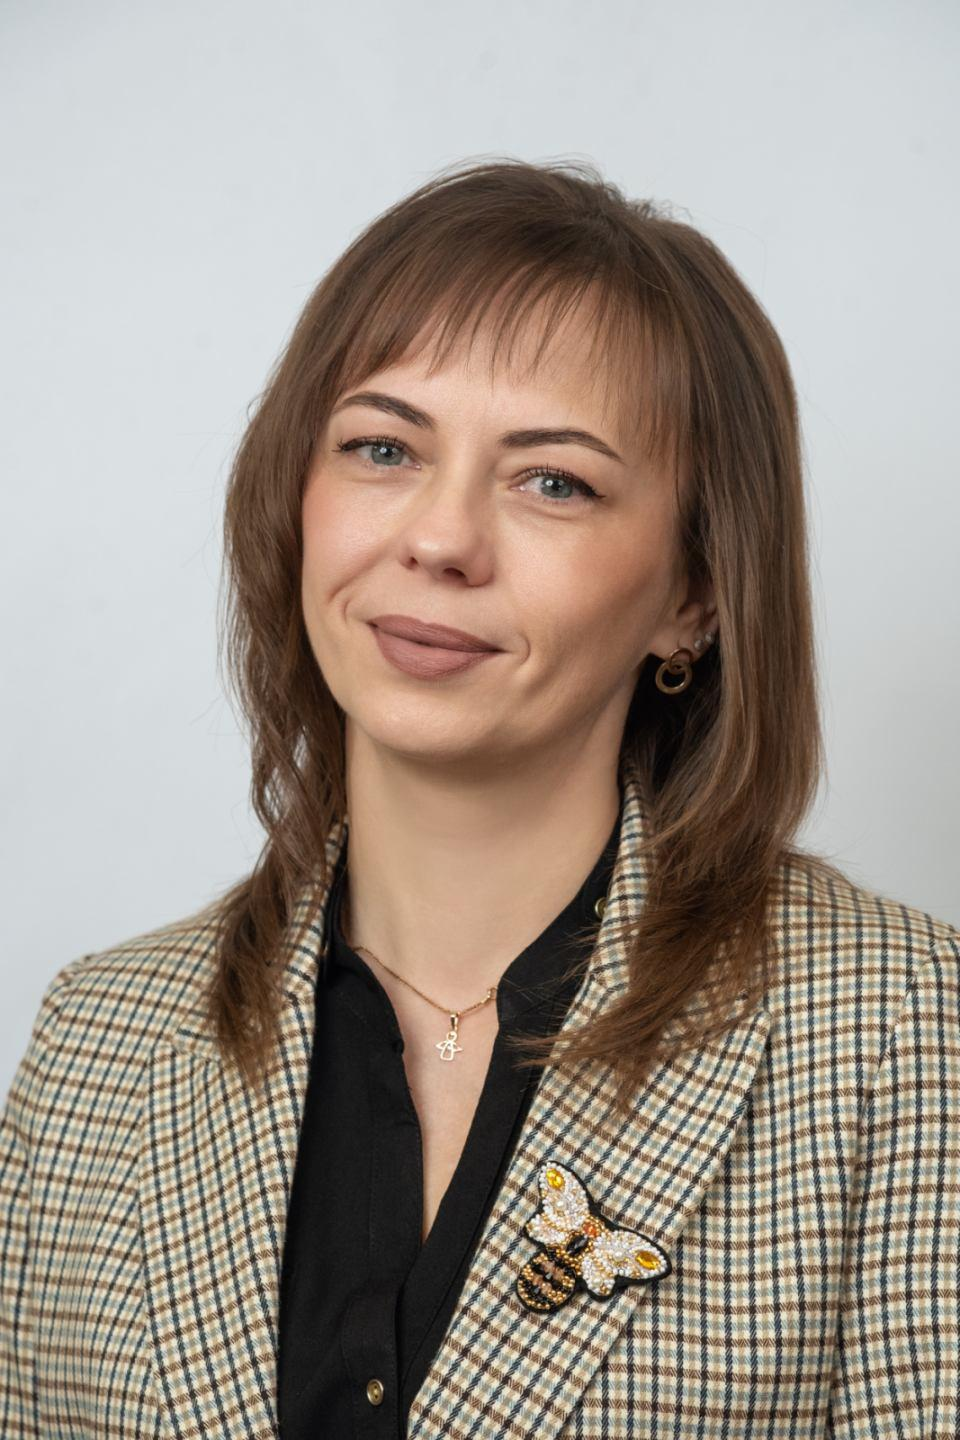
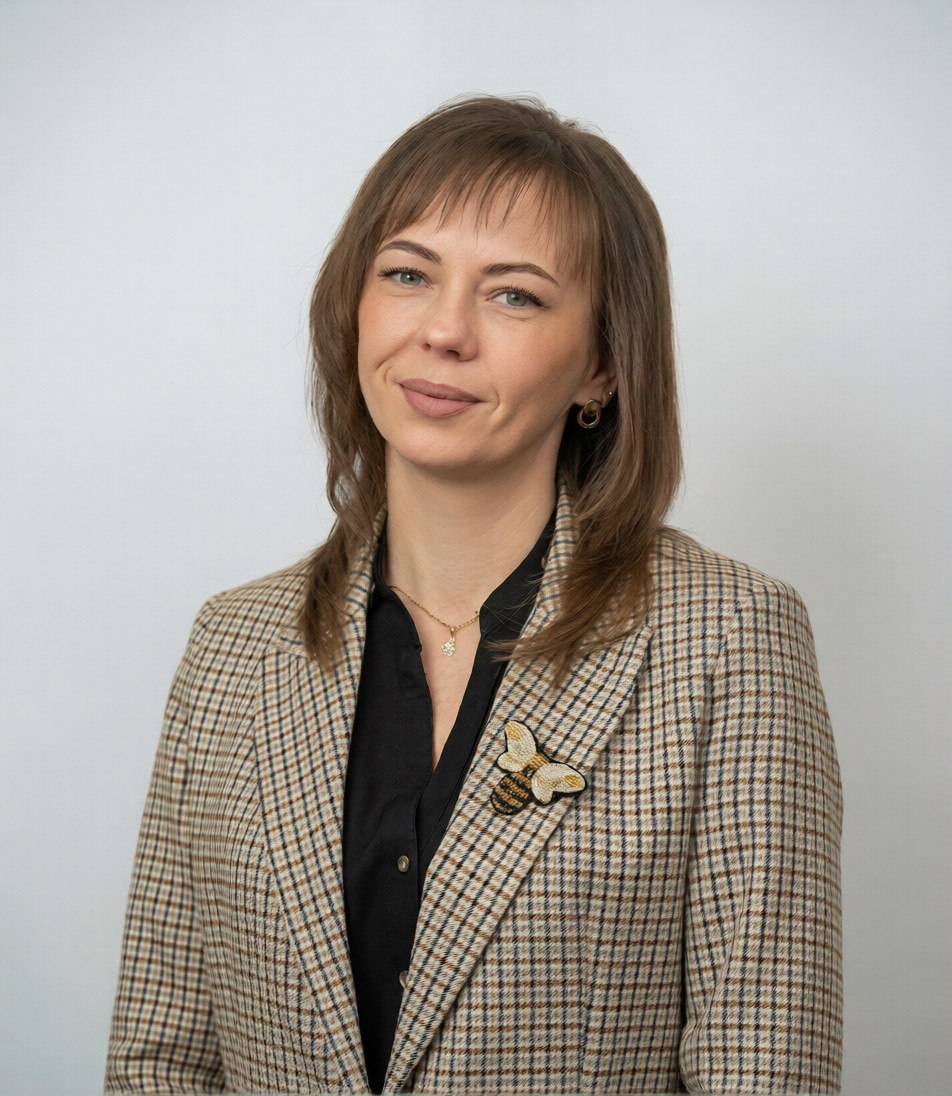
11

diff --git a/academic-integrity.html b/academic-integrity.html
@@ -9,6 +9,184 @@
     <link
         href="https://fonts.googleapis.com/css2?family=Montserrat:wght@500;600;700&family=Open+Sans:wght@400;600&display=swap"
         rel="stylesheet">
+    <style>
+        /* Enhanced Document Links */
+        .links-container {
+            counter-reset: doc-counter;
+        }
+
+        .doc-link {
+            position: relative;
+            padding-left: 80px !important;
+            margin-bottom: 20px;
+            transition: all 0.3s ease;
+            display: block;
+            background: rgba(255, 255, 255, 0.9);
+            padding: 15px 20px;
+            border-left: 5px solid var(--primary-green);
+            border-radius: 8px;
+            box-shadow: 0 2px 10px rgba(0, 0, 0, 0.05);
+            font-weight: 600;
+            color: var(--text-dark);
+            text-decoration: none;
+        }
+
+        .doc-link::before {
+            counter-increment: doc-counter;
+            content: counter(doc-counter);
+            position: absolute;
+            left: 20px;
+            top: 50%;
+            transform: translateY(-50%);
+            width: 45px;
+            height: 45px;
+            background: linear-gradient(135deg, var(--primary-green), var(--dark-green));
+            color: white;
+            border-radius: 50%;
+            display: flex;
+            align-items: center;
+            justify-content: center;
+            font-weight: 700;
+            font-size: 1.2rem;
+            font-family: 'Montserrat', sans-serif;
+            box-shadow: 0 3px 10px rgba(46, 125, 50, 0.3);
+            transition: all 0.3s ease;
+        }
+
+        .doc-link:hover::before {
+            transform: translateY(-50%) scale(1.1);
+            box-shadow: 0 5px 15px rgba(46, 125, 50, 0.5);
+        }
+
+        .doc-link:hover {
+            transform: translateX(10px);
+            box-shadow: 0 8px 25px rgba(0, 0, 0, 0.15);
+            background: var(--white);
+            color: var(--primary-green);
+        }
+
+        .doc-link-col {
+            display: flex;
+            flex-direction: column;
+            gap: 8px;
+        }
+
+        .doc-link-col span {
+            font-size: 1.05rem;
+            line-height: 1.4;
+        }
+
+        /* Premium Law Card */
+        .law-card-link {
+            display: flex;
+            align-items: center;
+            gap: 24px;
+            background: linear-gradient(135deg, #ffffff 0%, #f1f8f2 100%);
+            border: 2px solid #c8e6c9;
+            border-left: 6px solid var(--primary-green);
+            border-radius: 16px;
+            padding: 24px 28px;
+            text-decoration: none;
+            color: var(--text-dark);
+            box-shadow: 0 4px 20px rgba(46, 125, 50, 0.1);
+            transition: all 0.35s ease;
+            position: relative;
+            overflow: hidden;
+        }
+
+        .law-card-link::after {
+            content: '';
+            position: absolute;
+            top: 0; left: 0;
+            width: 100%; height: 100%;
+            background: linear-gradient(135deg, var(--primary-green), var(--dark-green));
+            opacity: 0;
+            transition: opacity 0.35s ease;
+            z-index: 0;
+        }
+
+        .law-card-link:hover::after {
+            opacity: 1;
+        }
+
+        .law-card-link:hover {
+            border-color: var(--primary-green);
+            transform: translateY(-3px);
+            box-shadow: 0 12px 35px rgba(46, 125, 50, 0.3);
+            color: white;
+        }
+
+        .law-card-icon {
+            width: 64px;
+            height: 64px;
+            background: linear-gradient(135deg, var(--primary-green), var(--dark-green));
+            border-radius: 14px;
+            display: flex;
+            align-items: center;
+            justify-content: center;
+            font-size: 2rem;
+            flex-shrink: 0;
+            box-shadow: 0 4px 12px rgba(46, 125, 50, 0.3);
+            transition: transform 0.35s ease;
+            position: relative;
+            z-index: 1;
+        }
+
+        .law-card-link:hover .law-card-icon {
+            transform: scale(1.1) rotate(-5deg);
+            background: rgba(255,255,255,0.2);
+            box-shadow: 0 4px 12px rgba(255,255,255,0.2);
+        }
+
+        .law-card-body {
+            flex: 1;
+            position: relative;
+            z-index: 1;
+        }
+
+        .law-card-label {
+            font-family: 'Montserrat', sans-serif;
+            font-size: 0.75rem;
+            font-weight: 700;
+            text-transform: uppercase;
+            letter-spacing: 2px;
+            color: var(--accent-orange);
+            margin-bottom: 6px;
+            transition: color 0.35s ease;
+        }
+
+        .law-card-link:hover .law-card-label {
+            color: rgba(255, 200, 100, 1);
+        }
+
+        .law-card-title {
+            font-family: 'Montserrat', sans-serif;
+            font-size: 1.25rem;
+            font-weight: 700;
+            color: var(--text-dark);
+            line-height: 1.3;
+            transition: color 0.35s ease;
+        }
+
+        .law-card-link:hover .law-card-title {
+            color: white;
+        }
+
+        .law-card-arrow {
+            font-size: 1.8rem;
+            color: var(--primary-green);
+            font-weight: 700;
+            transition: all 0.35s ease;
+            position: relative;
+            z-index: 1;
+            flex-shrink: 0;
+        }
+
+        .law-card-link:hover .law-card-arrow {
+            color: white;
+            transform: translateX(6px);
+        }
+    </style>
 </head>
 
 <body class="inner-page">
@@ -55,14 +233,18 @@
 
                 <h2 class="page-title materials-title">Матеріали та документи</h2>
 
-                <!-- Placeholder for future content -->
-                <div class="alert-box"
-                    style="text-align: center; background: #e3f2fd; padding: 40px; border-radius: 12px; border: 2px dashed #2196f3; margin-top: 30px; margin-bottom: 50px;">
-                    <i class="fas fa-tools" style="font-size: 4rem; color: #2196f3; margin-bottom: 20px;"></i>
-                    <h3 style="color: #0d47a1; margin-bottom: 15px; font-family: 'Montserrat', sans-serif;">Розділ у
-                        процесі наповнення</h3>
-                    <p style="color: #555; font-size: 1.1rem;">На жаль, матеріали та документи ще не додані.<br>Вони
-                        з'являться тут найближчим часом.</p>
+                <!-- Документи -->
+                <div style="margin-top: 30px; margin-bottom: 50px; max-width: 800px; margin-left: auto; margin-right: auto;">
+                    <a href="https://zakon.rada.gov.ua/laws/show/4742-20#Text" target="_blank" class="law-card-link">
+                        <div class="law-card-icon">
+                            <span>⚖</span>
+                        </div>
+                        <div class="law-card-body">
+                            <div class="law-card-label">ЗАКОН УКРАЇНИ</div>
+                            <div class="law-card-title">Про академічну доброчесність</div>
+                        </div>
+                        <div class="law-card-arrow">→</div>
+                    </a>
                 </div>
 
             </div>

diff --git a/inclusive-education.html b/inclusive-education.html
@@ -29,14 +29,24 @@
 
                 <h2 class="page-title materials-title">Матеріали та документи</h2>
 
-                <!-- Placeholder for future content -->
-                <div class="alert-box"
-                    style="text-align: center; background: #e3f2fd; padding: 40px; border-radius: 12px; border: 2px dashed #2196f3; margin-top: 30px; margin-bottom: 50px;">
-                    <i class="fas fa-tools" style="font-size: 4rem; color: #2196f3; margin-bottom: 20px;"></i>
-                    <h3 style="color: #0d47a1; margin-bottom: 15px; font-family: 'Montserrat', sans-serif;">Розділ у
-                        процесі наповнення</h3>
-                    <p style="color: #555; font-size: 1.1rem;">На жаль, матеріали та документи ще не додані.<br>Вони
-                        з'являться тут найближчим часом.</p>
+                <div class="docs-section" id="documents-container" style="margin-top: 30px; margin-bottom: 50px;">
+                    <a href="https://zakon.rada.gov.ua/laws/show/957-2021-%D0%BF#Text"
+                        target="_blank" class="doc-alert-card">
+                        <div class="doc-alert-card-inner">
+                            <span class="doc-icon">📘</span>
+                            <span class="doc-name">Про затвердження Порядку організації інклюзивного навчання у закладах загальної середньої освіти</span>
+                        </div>
+                        <span class="doc-arrow">➝</span>
+                    </a>
+
+                    <a href="https://drive.google.com/file/d/19EAtOZpKcxLFh46vQpDld46CWhMH6DP2/view?usp=sharing"
+                        target="_blank" class="doc-alert-card">
+                        <div class="doc-alert-card-inner">
+                            <span class="doc-icon">📋</span>
+                            <span class="doc-name">Положення про команду психолого-педагогічного супроводу дитини з освітніми потребами, яка здобуває дошкільну освіту</span>
+                        </div>
+                        <span class="doc-arrow">➝</span>
+                    </a>
                 </div>
 
             </div>

diff --git a/management.html b/management.html
@@ -24,11 +24,13 @@
                     <div class="card admin-card-large">
                         <div class="admin-photo-container">
                             <img src="assets/img/admin-director.jpg" alt="Юрченко Аліна Сергіївна"
-                                class="card-photo admin-photo" style="object-position: center top;" onerror="this.src='assets/img/logo.png'">
+                                class="card-photo admin-photo"
+                                style="object-fit: cover; object-position: center 15%; transform: scale(1.05);"
+                                onerror="this.src='assets/img/logo.png'">
                         </div>
-                        <div class="card-content">
-                            <div class="card-title">Юрченко<br>Аліна Сергіївна</div>
-                            <div class="card-subtitle">Директор гімназії</div>
+                        <div class="card-content" style="padding: 8px 10px; min-height: auto;">
+                            <div class="card-title" style="margin-bottom: 2px;">Юрченко<br>Аліна Сергіївна</div>
+                            <div class="card-subtitle" style="margin-bottom: 0;">Директор гімназії</div>
                         </div>
                     </div>
                 </div>

diff --git a/assets/js/components.js b/assets/js/components.js
@@ -215,6 +215,7 @@ function injectHeader() {
                             <h4>Історія</h4>
                             <a href="history.html">📜 Історія</a>
                             <a href="memory.html">🕯 Сторінка пам'яті</a>
+                            <a href="https://museum.lubnyrada.gov.ua/memorial/" target="_blank">🏛 Віртуальний меморіал</a>
                             <h4>Спільноти</h4>
                             <a href="teachers.html">👨🏫 Професійні спільноти вчителів</a>
                             <a href="humanities.html">📖 Суспільно-гуманітарні науки</a>

diff --git a/antibullying.html b/antibullying.html
@@ -94,7 +94,7 @@
                             <span class="doc-arrow">➝</span>
                         </a>
 
-                        <a href="https://drive.google.com/file/d/12iuLe5dFjogf-OXkPGNp_f1ClйTeoP-dr/view?usp=sharing"
+                        <a href="https://drive.google.com/file/d/19S-KLOlLyVn23BcI7mpLsFgZhoIwIVu1/view?usp=sharing"
                             target="_blank" class="doc-alert-card">
                             <div class="doc-alert-card-inner">
                                 <span class="doc-icon">⚖</span>

diff --git a/assets/css/style.css b/assets/css/style.css
@@ -5691,6 +5691,7 @@ html {
     .memory-card-info {
         padding: 20px;
     }
+
     .memory-name {
         font-size: 1.15rem;
     }
